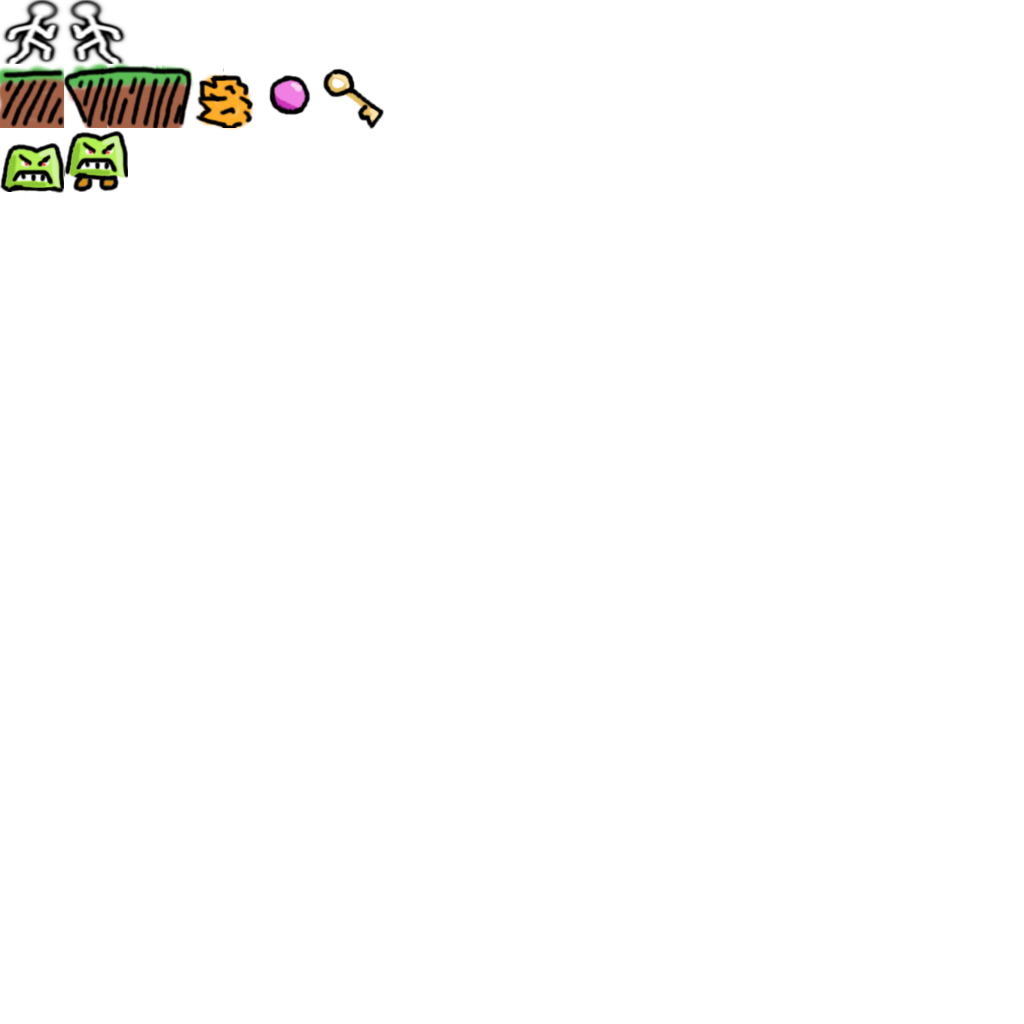
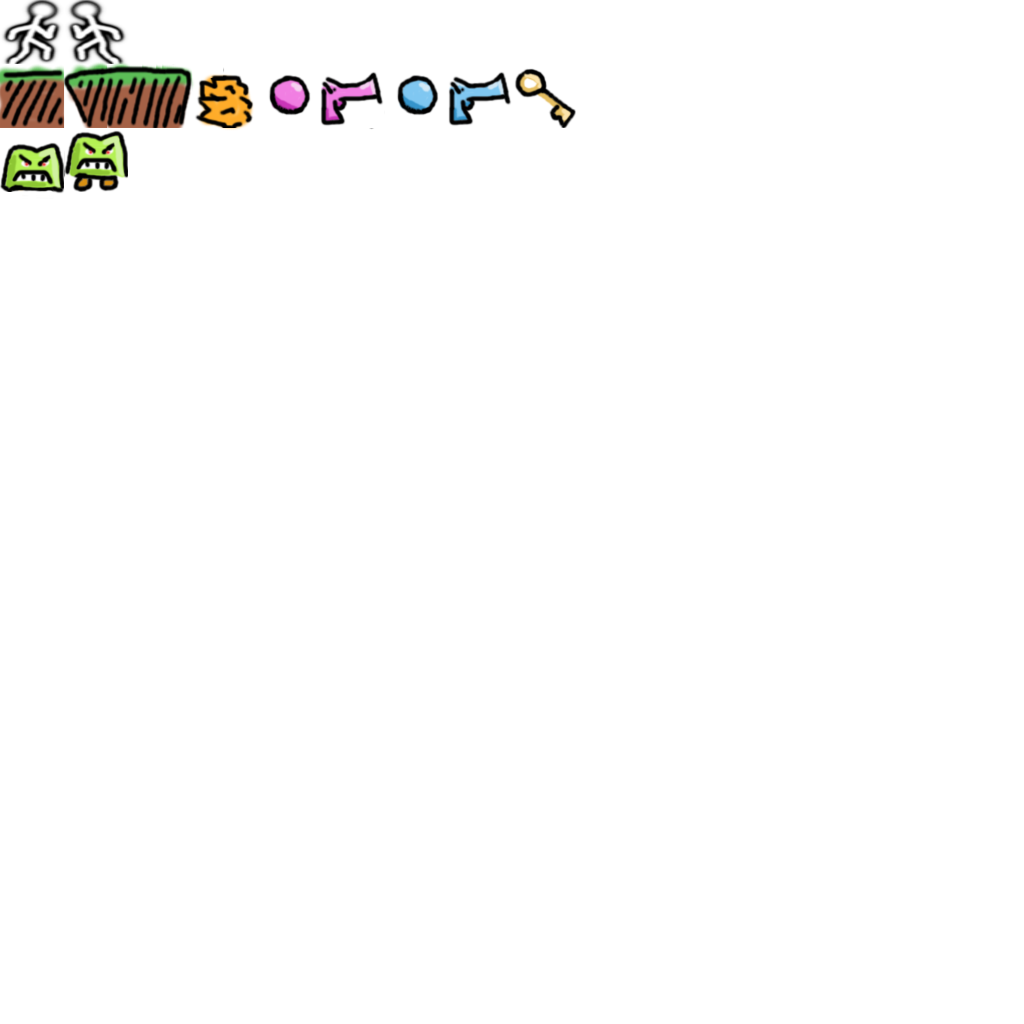
ld32: add gun items for projectiles and a blue variation thereof.

Changed region(s): [[0.3125, 0.0625, 0.5312, 0.125], [0.5312, 0.0938, 0.5625, 0.125]]

diff --git a/ld32-sot3000/level.cpp b/ld32-sot3000/level.cpp
@@ -39,7 +39,7 @@ void level_instance::TickGame(float seconds)
     tick_player(seconds);
     for (thing *t : m_projectiles)
         tick_projectile(t, seconds);
-    for (thing *t : m_keys)
+    for (thing *t : m_items)
         tick_living(t, seconds);
     for (thing *t : m_enemies)
         tick_living(t, seconds);
@@ -190,7 +190,7 @@ void level_instance::clear()
 
     m_projectiles.empty();
     m_enemies.empty();
-    m_keys.empty();
+    m_items.empty();
 }
 
 void level_instance::build()
@@ -228,7 +228,15 @@ void level_instance::build()
             break;
         case thing_type::key:
             t->m_tile_index = Tiles::Key;
-            m_keys.push(t);
+            m_items.push(t);
+            break;
+        case thing_type::pink_gun:
+            t->m_tile_index = Tiles::PinkGun;
+            m_items.push(t);
+            break;
+        case thing_type::blue_gun:
+            t->m_tile_index = Tiles::BlueGun;
+            m_items.push(t);
             break;
         case thing_type::sitting_enemy:
             t->m_tile_index = Tiles::SittingEnemy;
@@ -254,14 +262,25 @@ void level_instance::build()
     m_things.push(m_player);
     Ticker::Ref(m_player);
 
-    thing *fire = new thing(thing_type::projectile);
-    m_projectiles.push(fire);
-    fire->m_hidden = true;
-    fire->m_bbox[0] = vec3(TILE_SIZE * 0.3f);
-    fire->m_bbox[1] = vec3(TILE_SIZE * 0.7f);
-    fire->m_tile_index = Tiles::Projectile;
-    m_things.push(fire);
-    Ticker::Ref(fire);
+    for (thing_type type : { thing_type::pink_projectile, thing_type::blue_projectile})
+    {
+        thing *t = new thing(type);
+        m_projectiles.push(t);
+        t->m_hidden = true;
+        t->m_bbox[0] = vec3(TILE_SIZE * 0.3f);
+        t->m_bbox[1] = vec3(TILE_SIZE * 0.7f);
+        switch (type)
+        {
+            case thing_type::pink_projectile:
+                t->m_tile_index = Tiles::PinkProjectile;
+                break;
+            case thing_type::blue_projectile:
+                t->m_tile_index = Tiles::BlueProjectile;
+                break;
+        }
+        m_things.push(t);
+        Ticker::Ref(t);
+    }
 }
 
 float level_instance::collide_thing(thing const *t, vec3 velocity, float seconds)

diff --git a/ld32-sot3000/level.h b/ld32-sot3000/level.h
@@ -48,6 +48,12 @@ public:
             case '%':
                 m_layout[i][j] = thing_type::ground;
                 break;
+            case 'p':
+                m_layout[i][j] = thing_type::pink_gun;
+                break;
+            case 'b':
+                m_layout[i][j] = thing_type::blue_gun;
+                break;
             case 'K':
                 m_layout[i][j] = thing_type::key;
                 break;
@@ -84,14 +90,14 @@ public:
     test_map()
     {
         char const *data =
-        "%                                                         %\n"
-        "%   KKK                   K                               %\n"
-        "%                                                         %\n"
+        "%                                                       b %\n"
+        "%                                 K                       %\n"
+        "%  K                                                      %\n"
         "%           % % % % %                                     %\n"
         "%                                     #                 % %\n"
         "%                               % % % % % % %             %\n"
         "% % %                                                     %\n"
-        "%                                                       % %\n"
+        "%                       p                               % %\n"
         "%                                                         %\n"
         "%                                                         %\n"
         "%                                                       % %\n"
@@ -141,7 +147,7 @@ private:
     thing *m_player;
     array<thing *> m_enemies;
     array<thing *> m_projectiles;
-    array<thing *> m_keys;
+    array<thing *> m_items;
 
     vec3 m_player_impulse;
 };

diff --git a/ld32-sot3000/thing.cpp b/ld32-sot3000/thing.cpp
@@ -52,12 +52,15 @@ bool thing::can_fall()
     case thing_type::player:
     case thing_type::platform:
     case thing_type::blocker:
+    case thing_type::pink_gun:
+    case thing_type::blue_gun:
     case thing_type::key:
     case thing_type::walking_enemy:
     case thing_type::sitting_enemy:
         return true;
     case thing_type::ground:
-    case thing_type::projectile:
+    case thing_type::pink_projectile:
+    case thing_type::blue_projectile:
         return false;
     }
 }
@@ -70,7 +73,10 @@ bool thing::can_kill()
     case thing_type::ground:
     case thing_type::platform:
     case thing_type::blocker:
-    case thing_type::projectile:
+    case thing_type::pink_projectile:
+    case thing_type::pink_gun:
+    case thing_type::blue_projectile:
+    case thing_type::blue_gun:
     case thing_type::key:
         return false;
     case thing_type::walking_enemy:
@@ -83,7 +89,10 @@ bool thing::can_block()
 {
     switch (m_type)
     {
-    case thing_type::projectile:
+    case thing_type::pink_projectile:
+    case thing_type::pink_gun:
+    case thing_type::blue_projectile:
+    case thing_type::blue_gun:
     case thing_type::key:
         return false;
     case thing_type::player:

diff --git a/ld32-sot3000/thing.h b/ld32-sot3000/thing.h
@@ -17,9 +17,12 @@ enum class thing_type : int
     player,
     sitting_enemy,
     walking_enemy,
-    projectile,
+    pink_projectile,
+    blue_projectile,
     /* Items */
     key,
+    pink_gun,
+    blue_gun,
     /* Environment */
     ground,
     platform,
@@ -38,6 +41,8 @@ public:
     bool can_fall();
     bool can_kill();
     bool can_block();
+
+    inline thing_type get_type() const { return m_type; }
 
 public:
     /* Generic */

diff --git a/ld32-sot3000/game.cpp b/ld32-sot3000/game.cpp
@@ -43,7 +43,7 @@ ld32_game::ld32_game()
 
     // Some debug
     char const *debug_info[] = { "Hi :-)", "\\o/", "$%!%^#@" };
-    float debug_y = VIEWPORT_SIZE_Y * 0.5f;
+    float debug_y = VIEWPORT_SIZE_Y * 0.65f;
     for (auto t : debug_info)
     {
         m_debug_text.push(new Text(t, "data/font.png"));

diff --git a/ld32-sot3000/constants.h b/ld32-sot3000/constants.h
@@ -48,8 +48,11 @@ enum Tiles
     GroundTopLeft = 18,
 
     Rock = 19,
-    Projectile = 20,
-    Key = 21,
+    PinkProjectile = 20,
+    PinkGun = 21,
+    BlueProjectile = 22,
+    BlueGun = 23,
+    Key = 24,
 
     SittingEnemy = 32,
     WalkingEnemy = 33,
